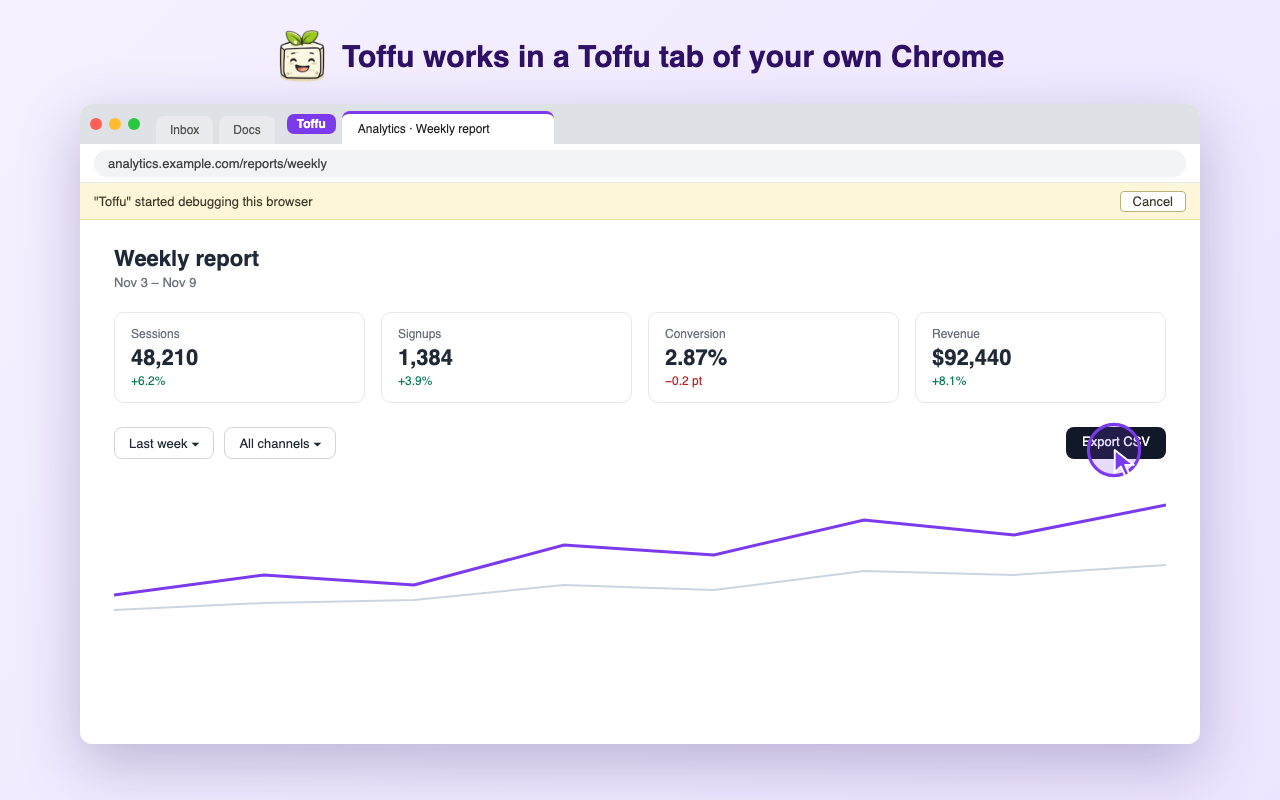
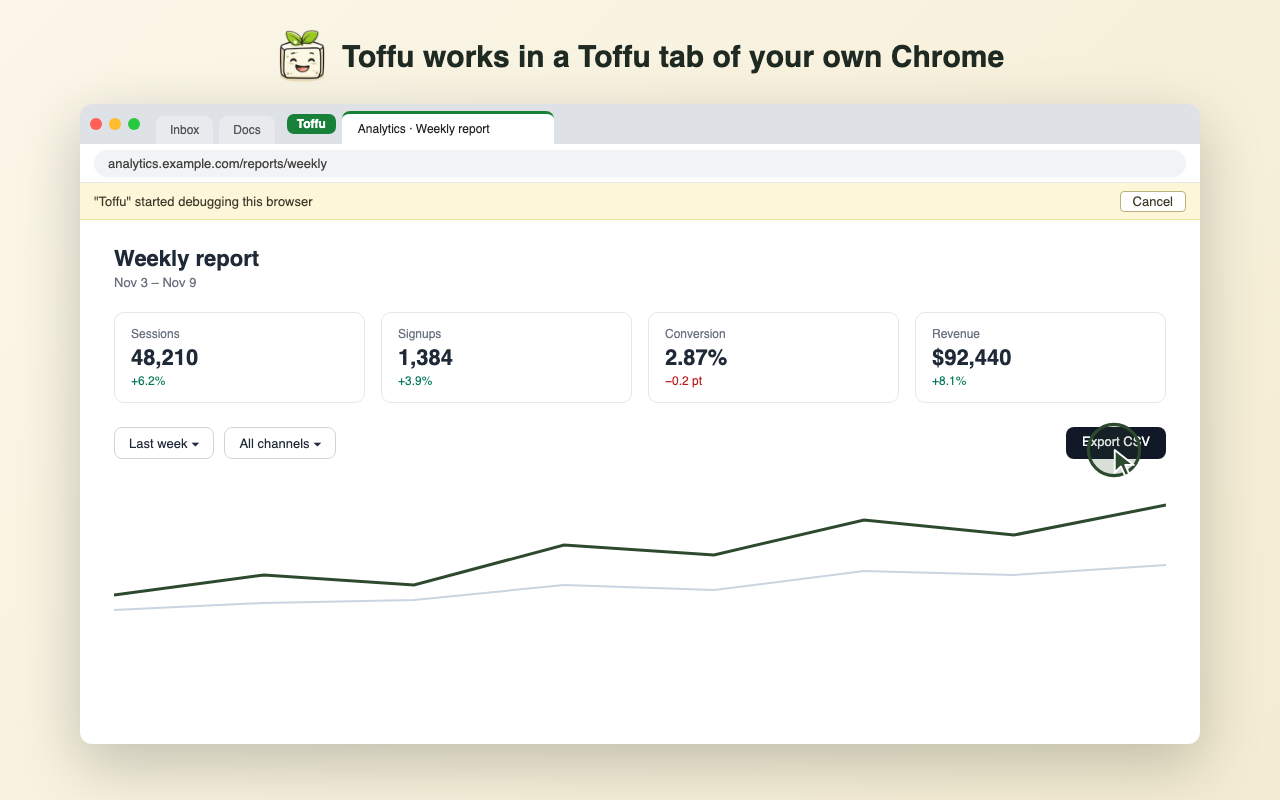
Chrome extension post: green tab group and cursor, images in website colors
Claude-Session: https://claude.ai/code/session_012MFstzonV6nCBbZf2XGeCV

diff --git a/drafts/social-toffu-in-your-own-chrome.md b/drafts/social-toffu-in-your-own-chrome.md
@@ -20,7 +20,7 @@ Today we release the Toffu Chrome extension. It lets Toffu control your own Chro
 Install it and ask:
 "Use my own Chrome. Open the client portal and compare October's leads with what Google Ads reports."
 
-→ Toffu works in one tab only: the purple Toffu tab group. Your other tabs stay out of reach.
+→ Toffu works in one tab only: the green Toffu tab group. Your other tabs stay out of reach.
 → You see every click. Toffu's cursor moves to each button before it clicks.
 → Cancel on Chrome's bar stops it at once.
 → It never types a password. Logins and 2FA codes come back to you in the chat.
@@ -42,7 +42,7 @@ Part of the Browser add-on. How it works: https://toffu.ai/blog/toffu-in-your-ow
 מתקינים ומבקשים:
 "תשתמש בכרום שלי. תפתח את הפורטל של הלקוח ותשווה את הלידים של אוקטובר למה שגוגל אדס מדווח."
 
-← Toffu עובד בלשונית אחת בלבד, בקבוצת הלשוניות הסגולה Toffu. שאר הלשוניות מחוץ להישג יד.
+← Toffu עובד בלשונית אחת בלבד, בקבוצת הלשוניות הירוקה Toffu. שאר הלשוניות מחוץ להישג יד.
 ← רואים כל קליק: הסמן של Toffu זז לכל כפתור לפני שהוא לוחץ.
 ← Cancel בפס של כרום עוצר אותו מיד.
 ← הוא אף פעם לא מקליד סיסמה. התחברות וקודי אימות חוזרים אליכם בצ'אט.

diff --git a/posts/toffu-in-your-own-chrome.md b/posts/toffu-in-your-own-chrome.md
@@ -29,13 +29,13 @@ Toffu opens the portal in your Chrome, already logged in with your session, read
 
 ## One tab, and you see every click
 
-Giving an AI agent your browser should not mean giving it your whole browser. So the extension works in one tab only: the tab of a purple **Toffu** tab group. If there is no such tab, the extension opens one. Your email, your other clients and every other tab stay out of reach. To hand Toffu a page you already have open, drag that tab into the group.
+Giving an AI agent your browser should not mean giving it your whole browser. So the extension works in one tab only: the tab of a green **Toffu** tab group. If there is no such tab, the extension opens one. Your email, your other clients and every other tab stay out of reach. To hand Toffu a page you already have open, drag that tab into the group.
 
 ![Toffu working in the Toffu tab of your own Chrome](https://raw.githubusercontent.com/toffu-ai/blog-posts/main/images/toffu-in-your-own-chrome-tab.png)
 
 While Toffu works, you see it:
 
-- A purple cursor moves to each button and field before Toffu clicks or types.
+- A green cursor moves to each button and field before Toffu clicks or types.
 - Chrome shows a bar that says Toffu is working in the browser. **Cancel** on that bar stops Toffu at once.
 
 Toffu never types a password. When it reaches a login, a code or a captcha, it asks you in the chat, you do that step in the Toffu tab, and Toffu continues from there.
